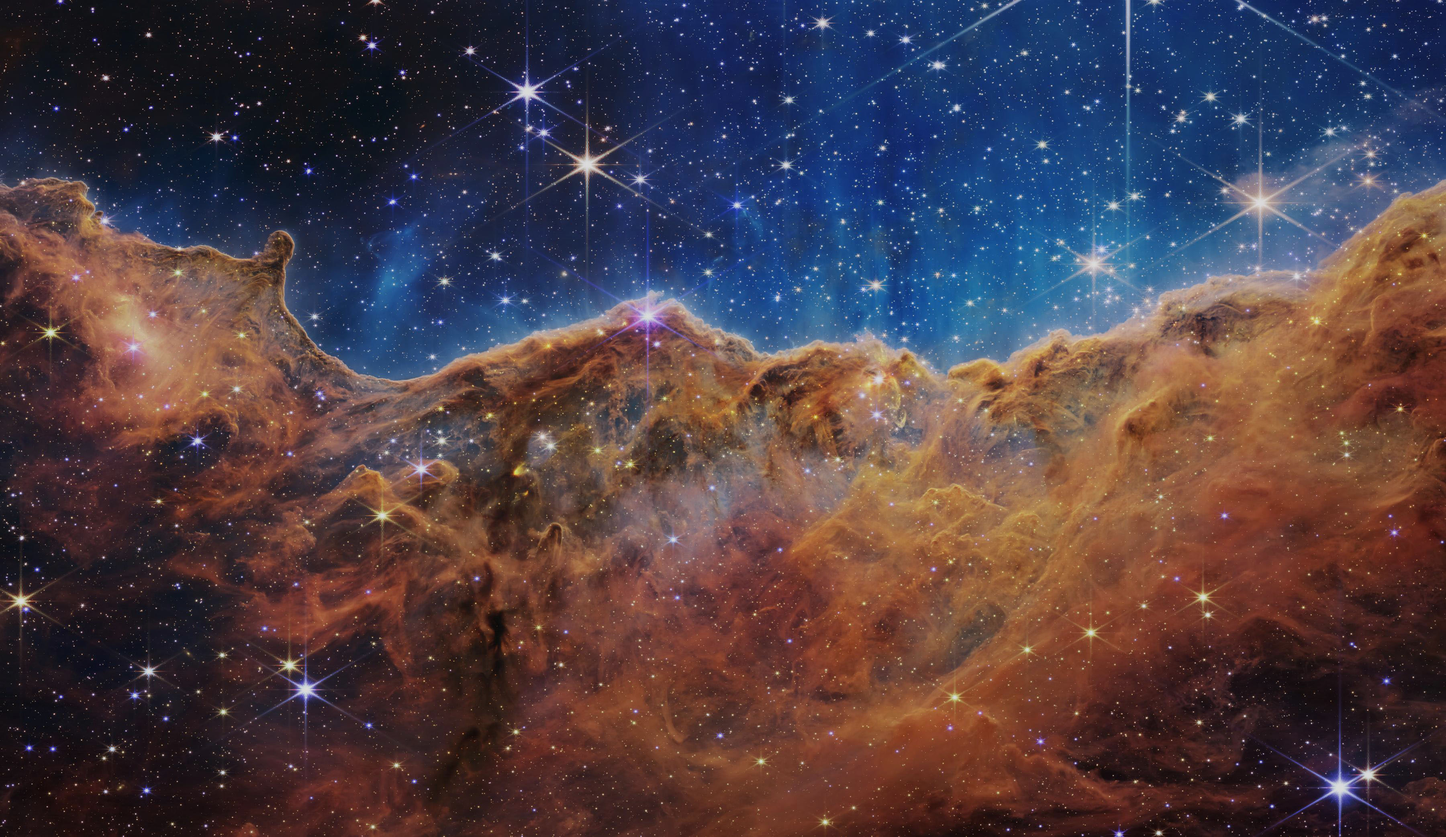
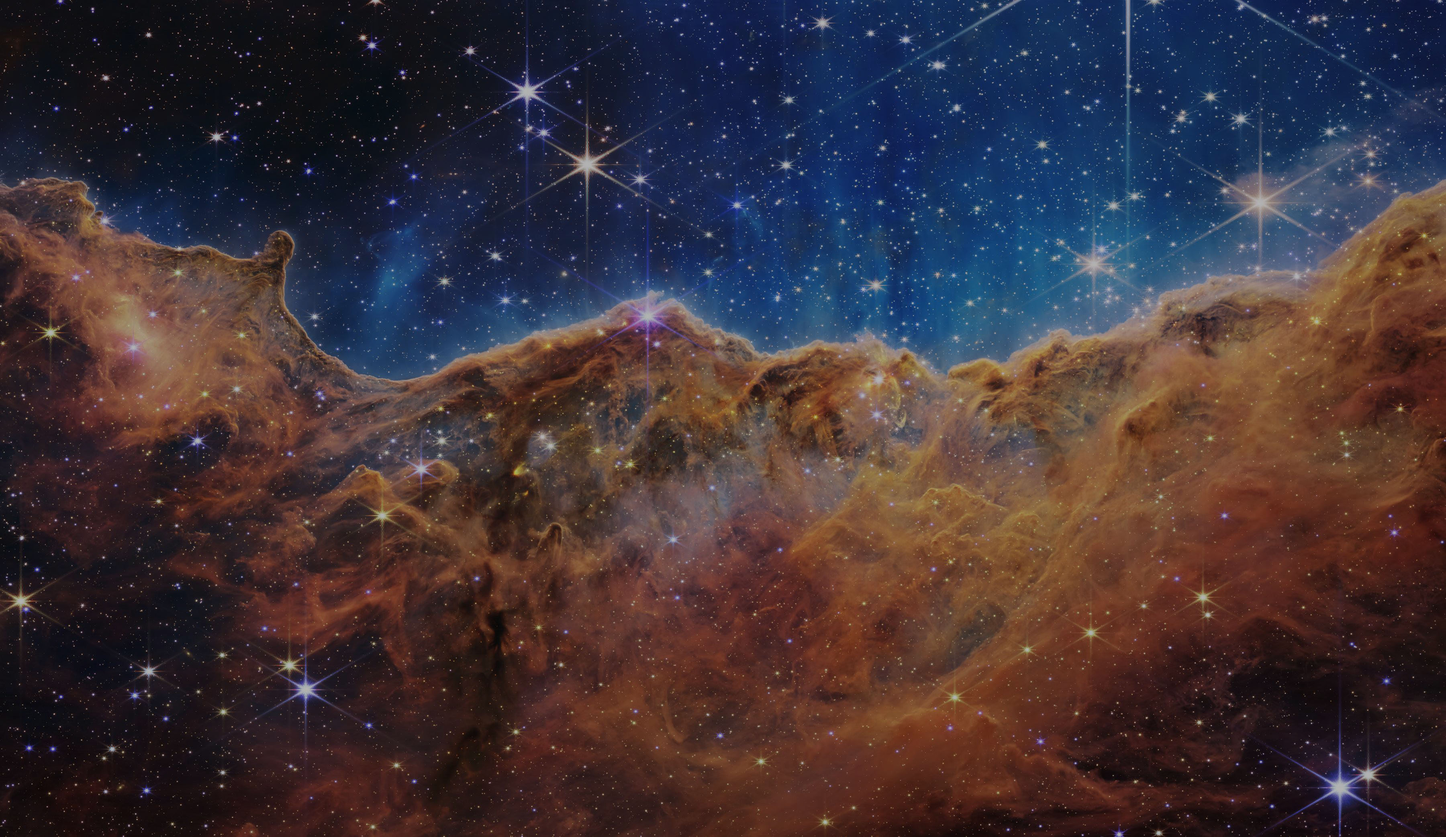
animacion luna 360deg

diff --git a/style.css b/style.css
@@ -77,6 +77,22 @@ header .logo{
     height: 65px;
     width: 65px;
     filter: drop-shadow(6px 6px 10px black);
+    animation-name: luna;
+    animation-duration: 1s;
+    animation-timing-function: linear;
+}
+@keyframes luna{
+    0%{
+        opacity: 0;
+        transform: rotate(0deg);
+    }
+    50%{
+        opacity: 0.5;
+    }
+    100%{
+        opacity: 1;
+        transform: rotate(360deg);
+    }
 }
 
 .luna:hover{
@@ -125,7 +141,7 @@ header .logo{
     height: min-content;
     padding-bottom: 60px;
     width: 100%;
-    background-image: linear-gradient(to bottom, rgba(0, 0, 0, 0.945), rgba(22, 0, 22, 0.904), rgba(0, 0, 0, 0.911));
+    background-image: linear-gradient(to bottom, rgba(0, 0, 0, 0.945), rgba(22, 8, 0, 0.904), rgba(0, 0, 0, 0.911));
 }
 
 /* Titulo de secciones */
@@ -371,7 +387,7 @@ header .logo{
 .containerConcept{
     height: auto;
     width: 100%;
-    background-image: linear-gradient(to bottom, rgb(0, 0, 0), rgba(88, 0, 88, 0.904), rgb(0, 0, 0));
+    background-image: linear-gradient(to bottom, rgb(0, 0, 0), rgba(88, 21, 0, 0.904), rgb(0, 0, 0));
     color: rgb(222, 222, 222);
     display: flex;
     justify-content: space-around;
@@ -450,7 +466,7 @@ footer{
     filter: drop-shadow(4px 2px 4px rgb(229, 229, 229));
     transform: scale(1.10);
 }
-@keyframes up{
+/* @keyframes up{
     0%{
         transform: scale(0);
     }
@@ -478,7 +494,7 @@ footer{
     100%{
         transform: scale(1);
     }
-}
+} */
 
 
 /* page 2 "Seccion 1" */
